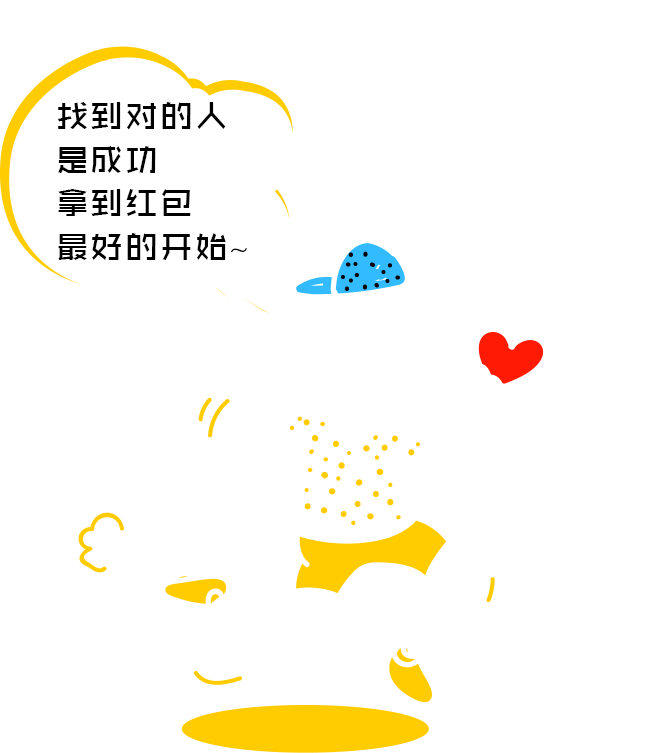
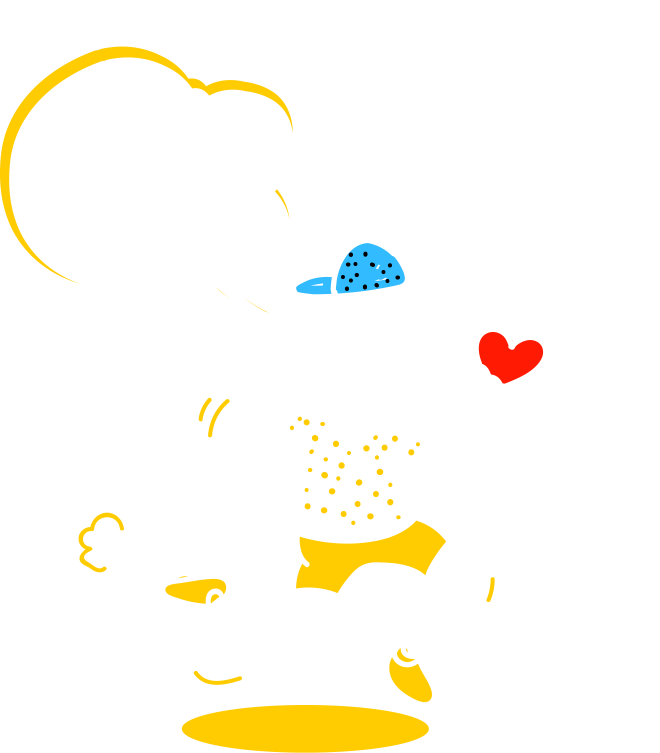
share

Changed region(s): [[0.0909, 0.1222, 0.3636, 0.3665]]

diff --git a/threeparty/static/index.html b/threeparty/static/index.html
@@ -27,8 +27,9 @@
     	<p class="btn"><a href="javascript:;">马上找人</a></p>
     	<img src="./images/people.png" alt="" class="h_people">
     </div>
-    <div class="share" style="display: none;">
+    <div class="share" style="display: block;">
     	<img src="./images/share.png" alt="">
+        <p>找到对的人<br>是成功<br>拿到红包<br>最好的开始~</p>
     </div>
 </body>
 </html>

diff --git a/threeparty/static/css/main.css b/threeparty/static/css/main.css
@@ -630,6 +630,13 @@ h3 {
   margin-left: 0.706667rem;
   margin-top: 0.333333rem;
 }
+.share p {
+  position: absolute;
+  left: 1.493333rem;
+  top: 1.586667rem;
+  font-size: 0.426667rem;
+  line-height: 0.586667rem;
+}
 /*公共logo*/
 .h_tit {
   text-align: center;

diff --git a/threeparty/static/less/_page.less b/threeparty/static/less/_page.less
@@ -473,6 +473,13 @@ h3{
 		margin-left: 0.706667rem;
 		margin-top: 0.333333rem;
 	}
+	p{
+		position: absolute;
+		left:1.493333rem;
+		top:1.586667rem;
+		font-size: 0.426667rem;
+		line-height: 0.586667rem;
+	}
 }
 /*公共logo*/
 .h_tit{
